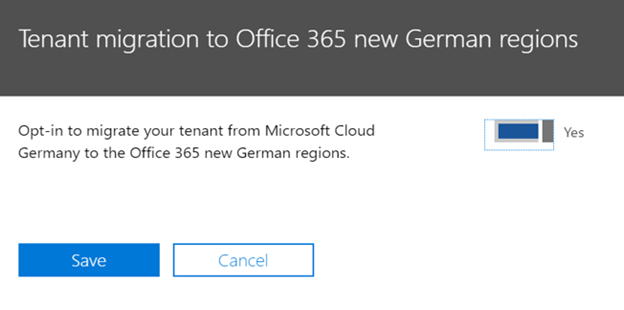
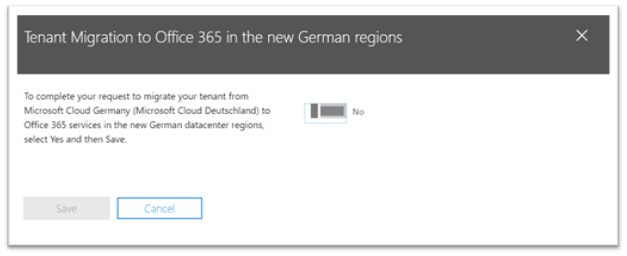
New documents

Changed region(s): [[0.0, 0.0, 1.0, 1.0], [0.7612, 0.375, 0.9439, 0.5]]

diff --git a/Enterprise/ms-cloud-germany-transition.md b/Enterprise/ms-cloud-germany-transition.md
@@ -1,9 +1,9 @@
 ---
-title: "Microsoft Cloud Germany transition: Office 365"
+title: "Migration from Microsoft Cloud Germany (Microsoft Cloud Deutschland) to Office 365 services in the new German datacenter regions"
 ms.author: josephd
 author: JoeDavies-MSFT
 manager: laurawi
-ms.date: 08/28/2019
+ms.date: 12/09/2019
 audience: ITPro
 ms.topic: hub-page
 ms.service: o365-solutions
@@ -19,81 +19,153 @@ ms.assetid: 706d5449-45e5-4b0c-a012-ab60501899ad
 description: "Summary: "
 ---
 
-## Microsoft Cloud Germany transition: Office 365
+## Migration from Microsoft Cloud Germany (Microsoft Cloud Deutschland) to Office 365 services in the new German datacenter regions
 
-As we have communicated on August 28, 2019, we are closing the Microsoft Cloud Germany regions, and delivering two new cloud datacenter regions in Germany offering core customer data residency within Germany as well as full connectivity to Microsoft’s global cloud network. These new regions are now live with the general availability of Azure and will offer Office 365, Dynamics 365 and Power Platform which are anticipated to be available in the first quarter of the 2020 calendar year.
 
-## What actions should I take?
+>[!Note]
+>This article only applies to eligible Microsoft Cloud Germany/Deutschland customers.
+>
 
-By September 30, 2020, migrate to an alternate region. We recommend moving to the new German datacenter regions, or you can choose to migrate to any other region.
+## Cloud service offerings in Germany
 
-We are offering Microsoft-driven migrations to the new German regions.  These new regions will provide core customer data residency within Germany, full connectivity to Microsoft’s global public cloud network backed by robust policies, controls and systems to help customers meet specific compliance and regulatory requirements.
+In August 2018, we announced our intention to deliver the complete Microsoft cloud – Azure, Office 365, Dynamics 365 and Power Platform – from new cloud regions in Germany to better enable the digital transformation of our customers. In August 2019, we announced we are now in the process of opening of the new cloud regions in Germany. We announced the availability of Azure in August and Office 365 became available in December.  Dynamics 365 and Power Platform are anticipated to become available in the first quarter of 2020.  
 
-Organizations must opt-in to the migration process by **February 29, 2020**.  Please follow the instructions at [https://aka.ms/office365germanymoveoptin](https://aka.ms/office365germanymoveoptin). 
-
-If you choose not to opt-in for migration, your subscription will expire on September 30, 2020. 
-
-**Please note!** We are updating the terms and conditions to reflect the new subscription expiration date. This will be updated on your next renewal date. <Link/copy of planned text inserted of the new service terms>
+The new regions are designed to address the evolving needs of German customers with the greater flexibly, the latest intelligent cloud services, and full connectivity to our global cloud network as well as customer data residency within Germany.
 
 ## Moving to the new German regions
 
-For organizations who opt-in to the Microsoft-driven approach, migrations are expected to take place March through September 2020. As a result of the migration, core customer data and subscriptions will be moved to the new German regions. Note that after the subscription migration completes, your pricing will decrease to reflect the public cloud pricing <link to pricing page>. Your new subscription will be extended to a new 12-month term, and this will be your new annual renewal date. 
+Existing Microsoft Cloud Germany (Microsoft Cloud Deutschland) customers can now begin to migrate their Office 365, Dynamics 365 Customer Engagement, and Power Platform BI customers.  The first step is to [opt-in to a Microsoft-led migration](https://aka.ms/office365germanymoveoptin) to our new German datacenter regions.
 
-The following services will be migrated as part of the Microsoft-driven approach:
+For organizations who opt-in to the Microsoft-driven approach, migrations are expected to take place in 2020. As a result of the migration, core customer data and subscriptions are moved to the new German regions. 
+
+Note that after the subscription migration completes, pricing will decrease to reflect the public cloud pricing. Direct customers will see a new subscription will be extended to a new 12-month term, and the migration completion date will be your new annual renewal date. The following services will be migrated as part of the Microsoft-driven approach:
 
 - Azure Active Directory
 - Exchange Online
 - Exchange Online Protection
 - SharePoint Online
 - OneDrive for Business
-- Skype for Business Online (1)
+- Skype for Business Online
+
+  As part of the migration from Microsoft Cloud Germany to the German region, existing Skype for Business Online customers will transition to Microsoft Teams. See [https://aka.ms/SkypeToTeams-Home](https://aka.ms/SkypeToTeams-Home) for more information.
+
 - Office 365 Groups
-- Dynamics / Power Platform (2)
+- Dynamics 365 / Power Platform
 
-(1) - As part of the migration from Microsoft Cloud Germany to the German region, existing Skype for Business Online customers will transition to Microsoft Teams. Refer to https://aka.ms/SkypeToTeams-Home for more information
+  Pre-requisites and impact of migration for these services are described in the [Dynamics 365 Customer engagement](https://docs.microsoft.com/dynamics365/customerengagement/on-premises/overview) article.
 
-(2) - Pre-requisites and impact of migration for these services are described in the < D365 child page (DOCS)> link
+>[!Reviewer]
+>Please check Dynamics 365 link.
+>
+
+## How to prepare for migration to Office 365 services in the new German datacenter regions
+
+The first step is to notify Microsoft so that we have your permission to migrate your subscription and data from Microsoft Cloud Germany/Deutschland to Office 365 services in the new German datacenter regions.  Please refer to the [opt-in process](ms-cloud-germany-migration-opt-in.md) for instructions.
+
+- All migrating customers need to verify connectivity to the worldwide [Office 365 URLs and IP addresses](urls-and-ip-address-ranges.md), which include the new German datacenter regions.
+- Review the Office 365 platform service description to understand which features and services will become available to your organization following the completion to the German region. 
+- Cancel any unused trial subscriptions in your organization, the migration only will transition paid subscriptions
+
+Tenant migrations are executed as back-end service operations with minimal customer interaction required.  Any additional customer-led tasks and overall migration status will be communicated via Message Center during the migration process.  Example of tasks may include customer managed DNS updates or reconfiguration of hybrid setup for Exchange hybrid customers.
+
+## Customer experience during the migration to Office 365 services in the new German datacenter regions
+
+Tenant migrations are executed as back-end service operations with minimal impact to end customers or actions required by administrators.  However, there are considerations for each workload.  
+
+### Azure Active Directory
+
+Office/Dynamics subscriptions from Microsoft Cloud Germany are transitioned to the German region with the Azure Active Directory (Azure AD) relocation. The organization is then updated to reflect new worldwide service subscriptions. During the brief subscription transfer process, changes to subscriptions will be blocked.
+
+### Exchange Online
+
+Exchange Online Hybrid customers must re-run the Hybrid Configuration Wizard to update on-premises configuration against Microsoft Cloud Germany before the transition, and re-execution of the HCW upon cleanup against the worldwide service. Additional DNS updates may be required for customers with custom domains.
+
+Mailboxes are migrated as a backend process, users in your organization may be in either Microsoft Cloud Germany or German region during the transition and are part of the same Exchange organization (GAL)
+
+### Exchange Online Protection
+
+Backend Exchange Online Protection features are copied to new Germany region
+
+### SharePoint Online
+
+Upon completion of the SharePoint Online migration to the German region, data indexes are rebuilt. Features dependent on search indexes may be impacted while reindexing completes.
+
+Existing sharepoint.de URLs are preserved for transitioned organizations.
+
+### OneDrive for Business
+
+Upon completion of the OneDrive for Business migration to the German region, data indexes are rebuilt. Features dependent on search indexes may be impacted while reindexing completes.
+
+### Skype for Business Online
+
+Existing Skype for Business Online customers will transition to Microsoft Teams. See [https://aka.ms/SkypeToTeams-Home](https://aka.ms/SkypeToTeams-Home) for more information
 
 
-## Move Preparation and Experience
+## Key differences between Microsoft Cloud Germany (Microsoft Cloud Deutschland) and Office 365 services in the new German datacenter regions
 
-Data moves are executed as back-end service operations with minimal interaction required. For customers with more complex configurations, for example firewall restrictions to Microsoft Cloud Germany only or Exchange Hybrid, you will have additional necessary configuration. Such customers must ensure network connectivity to the Office 365 Worldwide service URLs and IP addresses (see https://aka.ms/o365URLs). Additional service specific pre-work will be provided as the transition date approaches including experience for admin and end users throughout the transition. This migration process includes notification to organization administrators to keep you informed on your organization's progress to the German region.
+||||
+|:-------|:-----|:-----|
+|  | Microsoft Cloud Germany (Microsoft Cloud Deutschland) | Office 365 services in the new German datacenter regions |
+| Microsoft 365 services available for subscription with just one Office 365 tenant | <ul><li>Exchange Online</li><li>Customer Lockbox (Exchange Online)</li><li>Groups (Modern groups)</li><li>Delve Profile</li><li>Exchange Online Protection</li><li>Advanced Threat Protection (ATP)</li><li>Advanced eDiscovery</li><li>Advance Data Governance</li><li>SharePoint Online</li><li>Customer Lockbox (SharePoint Online)</li><li>OneDrive for Business</li><li>Skype for Business</li><li>Word Online, Excel Online, PowerPoint, OneNote, Visio Online</li><li>Office 365 Pro Plus</li><li>Outlook Mobile</li></ul>	 | <ul><li>Exchange Online</li><li>Customer Lockbox (Exchange Online)</li><li>Groups (Modern groups)</li><li>Delve Profile</li><li>MyAnalytics</li><li>Workplace Analytics</li><li>Exchange Online Protection</li><li>Advanced Threat Protection (ATP)</li><li>Advanced eDiscovery</li><li>Advanced Security Management</li><li>Information Rights Management</li><li>Advance Data Governance</li><li>SharePoint Online</li><li>Customer Lockbox (SharePoint Online)</li><li>OneDrive for Business</li><li>Microsoft Stream</li><li>Skype for Business (will transition to Microsoft Teams)</li><li>Cloud PBX</li><li>PSTN Conferencing</li><li>PSTN calling</li><li>Microsoft Teams</li><li>Admin Reports / Usage Reports</li><li>Word Online, Excel Online, PowerPoint, OneNote, Visio Online</li><li>Planner</li><li>Sway</li><li>Office 365 Pro Plus</li><li>Outlook Mobile</li><li>EMS E3 (Azure Active Directory Premium P1 + Intune + Rights Management Service)</li><li>Yammer Online</li></ul> |
+| New features | No new features are available. | New features will be available consistent with global Office 365 services. |
+| Data trustee | Yes | No |
+| Cross-tenant collaboration with global Office 365 tenants | No | Yes |
+| Customer data residency | Customer Data will be stored solely within German Data Centers. | Microsoft will store the following Customer Data at rest exclusively within Germany: Exchange Online mailbox content (e-mail body, calendar entries, and the content of e-mail attachments), SharePoint Online site content and the files stored within that site, and files uploaded to OneDrive for Business. |
+| Applicable terms | [Online Services Terms](https://www.microsoftvolumelicensing.com/DocumentSearch.aspx?Mode=3&DocumentTypeId=46) with [supplement](https://www.microsoftvolumelicensing.com/DocumentSearch.aspx?Mode=3&DocumentTypeId=64) | [Online Services Terms](https://www.microsoftvolumelicensing.com/DocumentSearch.aspx?Mode=3&DocumentTypeId=46) |
+||||
 
 ## Frequently Asked Questions
 
-**Q: Can I pick my migration date?**
+### Is migration required?
 
-**A:** No. Unfortunately, we are not able to accommodate specific timing requests. However, the business impact of the migration is limited, and we do not expect this to negatively impact business continuity.
+We recommend that all customers opt-in for migration, but it is not required.  We are no longer accepting new customers or deploying any new features or services in Microsoft Cloud Germany. Besides that, the new regions in Germany:
 
-**Q: Once licensing migration is completed, my subscription will extend to a new 12-month term. However, I prefer to subscribe for a shorter period. Can I cancel before the end of the term without paying cancellations fees?**
+- Offer market competitive pricing for [Azure](https://azure.microsoft.com/pricing/calculator/), [Office 365](https://www.microsoft.com/microsoft-365/business/compare-more-office-365-for-business-plans), [Dynamics 365 Customer Engagement](https://dynamics.microsoft.com/pricing/), and [Power BI](https://powerbi.microsoft.com/pricing/). 
+- Are connected to Microsoft global network, offering hundreds of network edge sites, peering locations, and egress points to deliver a robust user experience anywhere in the world. 
+- Help you meet local customer data residency requirements within Germany. 
+- Deliver our full featured global cloud offering, including the latest version of our services and new capabilities including Microsoft Teams and Multi-Geo in Office 365. Compare products by region for [Azure](https://azure.microsoft.com/global-infrastructure/services/?products=all&regions=germany-non-regional,germany-central,germany-north,germany-northeast,germany-west-central), [Office 365](https://products.office.com/en-us/where-is-your-data-located), and [Dynamics 365](https://docs.microsoft.com/dynamics365/get-started/availability).
+- Offer full functionality, enterprise-grade security, and comprehensive features to help customers meet compliance and regulatory requirements. 
+- Are accessible through existing online services contracts.
 
-**A:**
+### When will migration happen?
 
-1. Cancelation within 24 hours of new purchase or renewal: Customer gets full money back 
-2. Cancelation between 1 day and end of first month of new purchase or renewal: Customer gets prorated money back. Proration is based on purchase price. 
-3. Cancelation after 1 month of new purchase or renewal: This is allowed but customer doesn’t get any money back i.e. 100% ETF. This rate can be adjusted by Office by Product/Geo/Segment
+- Azure 
 
-**Q: I am not interested in moving to the new German regions, and my subscription ends after September 2020. What will happen to my account on September 30, 2020?**
+ You can begin [migrating](https://docs.microsoft.com/azure/germany/germany-migration-main) your Azure resources to another region today. If you have Azure with Office 365, Dynamics 365, and/or Power BI, please follow the steps below.
 
-**A:** Your subscription will expire on September 30, 2020, even if your subscription end date is later. We are updating the Terms and Conditions of all Microsoft Cloud Germany customers to reflect this. <see text>
+- Office 365
 
-**Q: I prefer to migrate on my own,  rather than join the Move Program. What should I do?**
+  [Opt-in](https://aka.ms/office365germanymoveoptin) to the Microsoft-driven migration today. When we are ready to start your migration, we will inform you through the [Message Center](https://docs.microsoft.com/office365/admin/manage/message-center?view=o365-worldwide) in the Microsoft 365 admin center.
 
-**A:** We strongly recommend you join the Move Program for a better migration experience. However, customers interested in migrating on their own can migrate today by following the step by step instructions and instructional videos here. This path is recommended for customers with fewer than 15 seats.
+- Dynamics 365 and Power BI
 
-**Q: If I have Azure as well as Office 365, Dynamics 365, and/or Power BI, when can I migrate?**
+  Opt-in to the Microsoft-driven migration for [Dynamics 365 Customer Engagement](https://aka.ms/D365ceOptIn) and [Power BI today](https://aka.ms/PBIOptIn). When we are ready to start your migration, we will inform you through the [Message center](https://docs.microsoft.com/office365/admin/manage/message-center?view=o365-worldwide) in the Microsoft 365 admin center.
 
-**A:** Starting in March 2020, when our Office migration tools are available, we’ll be able to support the automated migration of your Office 365 environment as well as the underlying tenant information that is common between Office 365 and Azure. From that point forward, following the Azure migration playbook will be the best reference for Azure migration best practices.
+### Will the price change for the Office services that I use?
 
-**Q: Will the price change for the Office services that I use?**
+Yes, pricing in Microsoft’s global cloud regions (including the new datacenter regions) is generally lower.
 
-**A:** Yes, pricing in Microsoft’s global cloud regions (including the new datacenter regions) is generally lower.
+### For direct customers: Once licensing migration is completed, my subscription will extend to a new 12-month term. However, I prefer to subscribe for a shorter period. Can I cancel before the end of the term without paying cancellations fees?
 
-## See Also
+- Cancelation within 24 hours of new purchase or renewal: You get your full money back.
 
-- [Microsoft Cloud Germany transition – overview](https://www.microsoft.com/cloud-platform/germany-cloud-regions)
-- [Microsoft Cloud Germany transition – Azure](https://docs.microsoft.com/azure/germany/frequently-asked-questions)
-- [Microsoft Cloud Germany transition – Dynamics 365 and Power BI](https://aka.ms/BizAppsMigration)
-- Office migration documentation (need link)
-- [Read the blog](https://aka.ms/DE-CH-DC)
+- Cancelation between 1 day and the end of first month of new purchase or renewal: You get prorated money back. Proration is based on purchase price.
 
+- Cancelation after 1 month of new purchase or renewal: This is allowed but you don't get any money back (i.e. 100% ETF). This rate can be adjusted by Office by Product/Geo/Segment.
+
+### How do I get help from Microsoft to migrate to a new region or answer support questions?
+
+If you have questions, you can contact us as follows, or through your partner:
+
+- For Azure, you can submit [new support requests](https://portal.microsoftazure.de/#blade/Microsoft_Azure_Support/HelpAndSupportBlade/newsupportrequest) in the Azure portal.
+- For Office 365, you may submit questions using the “Need Help?” link of the [Microsoft 365 admin center](https://portal.office.de/).
+- For Dynamics 365 Customer Engagement and Power BI customer who also have Office 365, you may submit questions using the “Need Help?” link of the [Microsoft 365 admin center](https://portal.office.de/). Dynamics 365 Customer Engagement support options are located [here](https://docs.microsoft.com/dynamics365/get-started/support/). Power BI support options are located [here](https://powerbi.microsoft.com/support/).
+
+## More information
+
+- Microsoft Cloud Deutschland Migration Assistance at [https://aka.ms/germanymigrateassist](https://aka.ms/germanymigrateassist)
+- How to opt-in for migration at [https://aka.ms/office365germanymoveoptin](https://aka.ms/office365germanymoveoptin)
+- Dynamics 365 migration at [https://aka.ms/d365ceoptin](https://aka.ms/d365ceoptin)
+- Power Apps Power BI migration at [https://aka.ms/pbioptin](https://aka.ms/pbioptin)
+- Office 365 URLs and IP address ranges at [https://aka.ms/o365endpoints](https://aka.ms/o365endpoints)
+- Office 365 Hybrid Configuration Wizard at [https://aka.ms/HybridWizard](https://aka.ms/HybridWizard)

diff --git a/Enterprise/ms-cloud-germany-migration-opt-in.md b/Enterprise/ms-cloud-germany-migration-opt-in.md
@@ -1,9 +1,9 @@
 ---
-title: "Microsoft Cloud Germany: Opt-in for migration"
+title: "How to opt-In for migration from Microsoft Cloud Germany (Microsoft Cloud Deutschland) to Office 365 services in the new German datacenter regions"
 ms.author: josephd
 author: JoeDavies-MSFT
 manager: laurawi
-ms.date: 08/28/2019
+ms.date: 12/09/2019
 audience: ITPro
 ms.topic: hub-page
 ms.service: o365-solutions
@@ -19,38 +19,40 @@ ms.assetid: 706d5449-45e5-4b0c-a012-ab60501899ad
 description: "Summary: "
 ---
 
-## Microsoft Cloud Germany: Opt-in for migration
+## How to opt-In for migration from Microsoft Cloud Germany (Microsoft Cloud Deutschland) to Office 365 services in the new German datacenter regions
 
 >[!Note]
->The information on this page only applies to Office 365 customers with service provisioned in Microsoft Cloud Germany.
+>This article only applies to eligible Microsoft Cloud Germany/Deutschland customers.
 >
-
-## When can I request a move?
-
-All customers with service provisioned in Microsoft Cloud Germany are eligible to request migration from Microsoft Cloud Germany to the Office 365 new German regions.  The enrollment period is open from August 28, 2019 through February 28, 2020.
 
 ## How to request migration
 
-Customers with service provisioned in Microsoft Cloud Germany will see a page in Admin Center which will allow a customer tenant administrator to opt-in for migration.  Partners with administration on behalf privileges also are eligible to opt-in their customers for migration.
+Eligible customers with service provisioned in Microsoft Cloud Germany will see a page in the Microsoft 365 admin center that will allow a customer tenant administrator to opt-in for migration.
 
-To access the page in the Microsoft 365 Admin Center, in the navigation pane on the left, expand **Settings** and then click **Organization Profile**.
+To access the page in the Microsoft 365 admin center, in the navigation pane on the left, expand **Settings** and then click **Organization Profile**.
 
-![](./media/ms-cloud-germany-migration-opt-in/org-profile.png) 
+On the **Organization Profile** page, scroll down to the **Migrate from Microsoft Cloud Germany (Microsoft Cloud Deutschland) to Office 365 services in the new German datacenter regions** section.
 
-On the **Organization Profile** page, scroll down to the **Tenant migration to Office 365 new German regions** section.
-
-![](./media/ms-cloud-germany-migration-opt-in/tenant-migration.png) 
-
-
-If your organization wishes to migrate service from Microsoft Cloud Germany to the Office 365 new German regions then click **Opt-in** on the top right of the section. 
-
-A new section will appear on the right side of your screen to accept your confirmation. Select the toggle button next to the text that says **Opt-in to migrate your tenant from Microsoft Cloud Germany to the Office 365 new German regions**, and then click **Save**.
-
-![](./media/ms-cloud-germany-migration-opt-in/tenant-migration-new-regions.png) 
+If your organization wishes to migrate your service from Microsoft Cloud Germany (Microsoft Cloud Deutschland) to Office 365 services in the new German datacenter regions, click **Opt-in**.
  
-Once an administrator has opted-in on behalf of your tenant then all administrators will see the text on the **Tenant migration to Office 365 new German regions** section change to indicate **Your organization has chosen to migrate your tenant from Microsoft Cloud Germany to the Office 365 new German regions** along with the date of the opt-in. You will also have a confirmation message in your message center. This confirms that you have successfully requested a move.
+![Opt-in introduction](./media/ms-cloud-germany-migration-opt-in/tenant-migration.png)
 
+A new section will appear on the right side of your screen to accept your confirmation. Select the toggle button to **Yes**, and then click **Save**.
  
+![Opt-in acceptance](./media/ms-cloud-germany-migration-opt-in/tenant-migration-new-regions.png)
+
+Once an administrator has opted-in on behalf of your tenant then all administrators will see the confirmation in **Migrate from Microsoft Cloud Germany (Microsoft Cloud Deutschland) to Office 365 services in the new German datacenter regions** section, including the date of opt-in. Administrators will also have a confirmation in Message Center of the Microsoft 365 admin center. 
+ 
+![Opt-in confirmation](./media/ms-cloud-germany-migration-opt-in/tenant-migration2.png)
+
 ## What happens after opting-in for migration?
 
-Microsoft will send updates throughout the migration process in Message Center.
+Migrations are expected to take place in 2020 for organizations that opt-in to the Microsoft-driven approach.  As a result of the migration, core customer data and subscriptions are moved to the new German regions.  Microsoft will send updates throughout the migration process in Message Center.
+
+## More information
+
+- Microsoft Cloud Deutschland Migration Assistance at [https://aka.ms/germanymigrateassist](https://aka.ms/germanymigrateassist)
+- Office 365 migration at [https://aka.ms/office365germanymove](https://aka.ms/office365germanymove)
+- Dynamics 365 migration at [https://aka.ms/d365ceoptin](https://aka.ms/d365ceoptin)
+- Power Apps Power BI migration at [https://aka.ms/pbioptin](https://aka.ms/pbioptin)
+- Submit questions using the “Need Help?” link of the [Microsoft 365 admin center](https://portal.office.de/)
